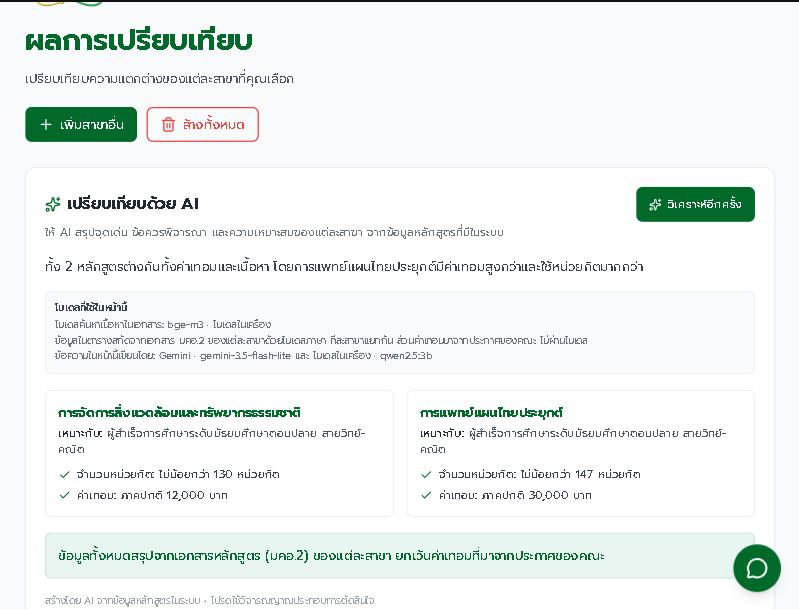
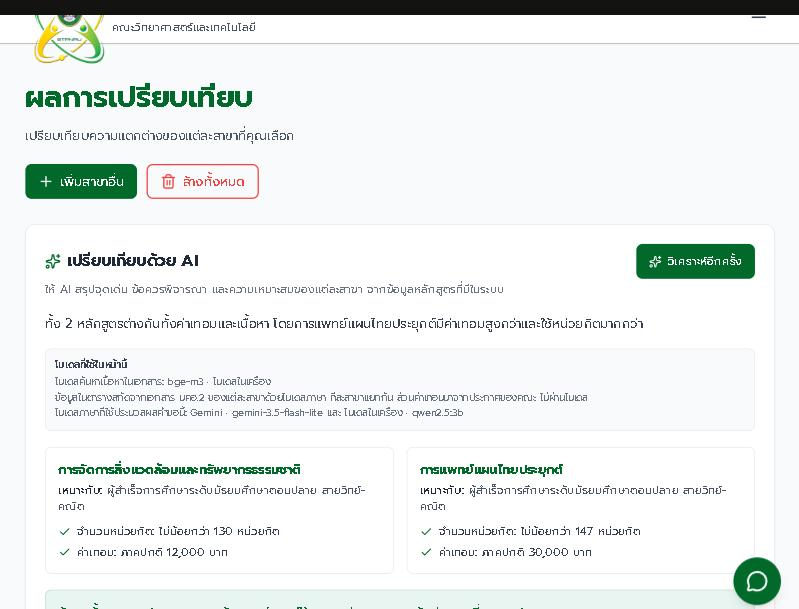
docs: แก้รายงานให้ตรงกับป้ายใหม่ของรายชื่อโมเดล

diff --git a/docs/COMPARE_MODEL_LABEL_2569-10-30.md b/docs/COMPARE_MODEL_LABEL_2569-10-30.md
@@ -4,13 +4,16 @@
 
 | | |
 |---|---|
-| backend | `cc11200` บน `feature/public-model-choice` |
-| หน้าเว็บ | `62bde6e` บน `prep-step8` (repo `LastProject`) |
+| backend | `cc11200` + `9a8e6da` บน `feature/public-model-choice` |
+| หน้าเว็บ | `62bde6e` + `102b556` บน `prep-step8` (repo `LastProject`) |
 | งานค้าง `AiSettings.jsx` | ไม่ถูกแตะ ไม่ถูก commit |
 | เนื้อหาที่แสดง · นโยบายเลือกโมเดล · จำนวนการเรียกโมเดล | **ไม่เปลี่ยน** |
 
 diff: [raw/compare-model-label-backend-cc11200.diff](raw/compare-model-label-backend-cc11200.diff) ·
 [raw/compare-model-label-frontend-62bde6e.diff](raw/compare-model-label-frontend-62bde6e.diff)
+
+รอบแก้ถ้อยคำของป้าย (30 ต.ค.): [raw/writers-label-backend-9a8e6da.diff](raw/writers-label-backend-9a8e6da.diff) ·
+[raw/writers-label-frontend-102b556.diff](raw/writers-label-frontend-102b556.diff)
 
 ---
 
@@ -41,14 +44,25 @@ diff: [raw/compare-model-label-backend-cc11200.diff](raw/compare-model-label-bac
   โมเดลค้นหาเนื้อหาในเอกสาร: bge-m3 · โมเดลในเครื่อง
   ข้อมูลในตารางสกัดจากเอกสาร มคอ.2 ของแต่ละสาขาด้วยโมเดลภาษา ทีละสาขาแยกกัน
   ส่วนค่าเทอมมาจากประกาศของคณะ ไม่ผ่านโมเดล
-  คำอธิบายโดย: Gemini · gemini-3.5-flash-lite
+  โมเดลภาษาที่ใช้ประมวลผลคำขอนี้: Gemini · gemini-3.5-flash-lite
 ```
 
-กรณีที่เจ้าหลักล้มกลางคำขอแล้วตัวสำรองรับช่วงต่อ บรรทัดสุดท้ายเปลี่ยนเป็น
+กรณีที่เจ้าหลักล้มกลางคำขอแล้วตัวสำรองรับช่วงต่อ บรรทัดสุดท้ายต่อชื่อเพิ่ม ป้ายยังเป็นอันเดิม
 
 ```
-  ข้อความในหน้านี้เขียนโดย: Gemini · gemini-3.5-flash-lite และ โมเดลในเครื่อง · qwen2.5:3b
+  โมเดลภาษาที่ใช้ประมวลผลคำขอนี้: Gemini · gemini-3.5-flash-lite และ โมเดลในเครื่อง · qwen2.5:3b
 ```
+
+**ทำไมไม่เขียนว่า "เขียนโดย"** — รายการที่หลังบ้านส่งมาคือทุกรุ่นที่ **ตอบสำเร็จ** ในคำขอนี้
+ระบบไม่ได้ตามรอยว่าคำตอบแต่ละครั้งถูกนำไปแสดงจริงหรือถูกตัดทิ้งที่ด่านตรวจข้อความอ้างอิง
+(ซึ่งเกิดขึ้นจริงเป็นประจำ) การเขียนว่า "เขียนโดย" จึงเป็นการอ้างเกินกว่าที่ข้อมูลรับประกัน ·
+ถ้าต้องการป้ายระดับ "ตัวนี้เขียนบรรทัดนี้" ต้องเพิ่มกลไกตามรอยผลของการเรียกแต่ละครั้ง
+ซึ่งรอบนี้ไม่ได้ทำ
+
+ป้ายนี้ใช้ถ้อยคำเดียวกันทั้งกรณีรุ่นเดียวและหลายรุ่น และ **หน้าแนะนำสาขาใช้ป้ายเดียวกันด้วย**
+(เดิมเขียนว่า "คำอธิบายโดย: …") เพราะข้อจำกัดของข้อมูลเป็นอย่างเดียวกัน · กรณีไม่ได้ใช้
+ข้อความจาก AI เลย ยังขึ้น `ไม่ได้ใช้ข้อความจาก AI ในผลชุดนี้ · ประมวลผลจากข้อมูลและเกณฑ์
+ของระบบ` และไม่มีชื่อรุ่นใดถูกติดป้ายให้เหมือนเดิม
 
 ภาพจากหน้าจริง (กรณีสองรุ่น): [raw/compare-model-label-2569-10-30.jpg](raw/compare-model-label-2569-10-30.jpg)
 
@@ -62,10 +76,11 @@ diff: [raw/compare-model-label-backend-cc11200.diff](raw/compare-model-label-bac
 * `engine.embedding` และ `engine.scoring = "document_extraction"` เริ่มถูกส่งจาก
   `/compare-courses` (เดิมไม่ส่งทั้งคู่ หน้าเว็บจึงไม่มีอะไรให้แสดง) · ค่ารุ่นมาจาก ContextVar
   ที่บันทึกตอน embed สำเร็จจริง ไม่ใช่ค่าที่ตั้งไว้
-* `engine.writers` = **ทุกรุ่นที่เขียนข้อความสำเร็จในคำขอนี้** เรียงตามลำดับที่ถูกใช้ครั้งแรก
+* `engine.writers` = **ทุกรุ่นที่ตอบสำเร็จในคำขอนี้** เรียงตามลำดับที่ถูกใช้ครั้งแรก
   หน้านี้เรียกโมเดลหลายครั้ง (สกัดตารางทีละหลักสูตร + สรุปหนึ่งครั้ง) ถ้ารายงานแค่ตัวสุดท้าย
-  ผู้ใช้จะเข้าใจว่าทั้งหน้ามาจากรุ่นเดียว ทั้งที่อาจมาจากสองรุ่น · ช่อง `explanation` เดิม
+  ผู้ใช้จะเข้าใจว่าทั้งหน้าผ่านรุ่นเดียว ทั้งที่อาจผ่านสองรุ่น · ช่อง `explanation` เดิม
   ยังเป็นตัวล่าสุดเหมือนเดิม ไม่เปลี่ยนความหมาย
+  · **ไม่ใช่รายชื่อผู้เขียนข้อความที่แสดง** — ไม่มีการตามรอยว่าคำตอบครั้งไหนถูกใช้จริง
 * เก็บใน ContextVar ต่อคำขอ ไม่ได้เก็บบน connector ที่หลายคำขอใช้ร่วมกัน (มีเทสต์คุม)
 
 ---
@@ -88,8 +103,16 @@ diff: [raw/compare-model-label-backend-cc11200.diff](raw/compare-model-label-bac
 ไม่ใช่ข้อมูลการเชื่อมต่อ · ยังเทียบชุดคีย์แบบตรงตัวทุกชั้น และเพิ่มการตรวจคีย์ชั้นในของ
 `writers` ด้วย
 
-**ตรวจหน้าจริงด้วยสตั๊บ** (ไม่เรียกโมเดลจริง): กรณีรุ่นเดียวและกรณีสองรุ่น อ่าน DOM แล้วได้
-ข้อความตามข้อ 2 ทั้งสองกรณี
+**ตรวจหน้าจริงด้วยข้อมูลจำลอง** (ไม่เรียกโมเดลจริง) อ่าน DOM ของหน้าที่ build แล้ว
+
+| กรณี | บรรทัดที่ได้ |
+|---|---|
+| เปรียบเทียบ · รุ่นเดียว | `โมเดลภาษาที่ใช้ประมวลผลคำขอนี้: Gemini · gemini-3.5-flash-lite` |
+| เปรียบเทียบ · สองรุ่น | `… : Gemini · gemini-3.5-flash-lite และ โมเดลในเครื่อง · qwen2.5:3b` |
+| แนะนำสาขา · ปกติ | ป้ายเดียวกัน พร้อมบรรทัดเทียบความคล้ายและบรรทัดวิธีให้คะแนนเหมือนเดิม |
+| แนะนำสาขา · AI ล่ม | `ไม่ได้ใช้ข้อความจาก AI ในผลชุดนี้ …` · ค้นทั้งหน้าไม่พบชื่อรุ่นใดเลย |
+
+ทั้งสี่กรณีค้นทั้งหน้าแล้วไม่พบคำว่า "เขียนโดย" หรือ "คำอธิบายโดย" อีก
 
 ยังไม่ได้ทดสอบกับ Gemini จริงบนเซิร์ฟเวอร์ เพราะยังไม่ได้ปล่อย — ถ้าอนุมัติจะตรวจรับ
 บนเว็บจริงด้วย response กับหน้าจอของคำขอเดียวกันเหมือนรอบที่แล้ว
